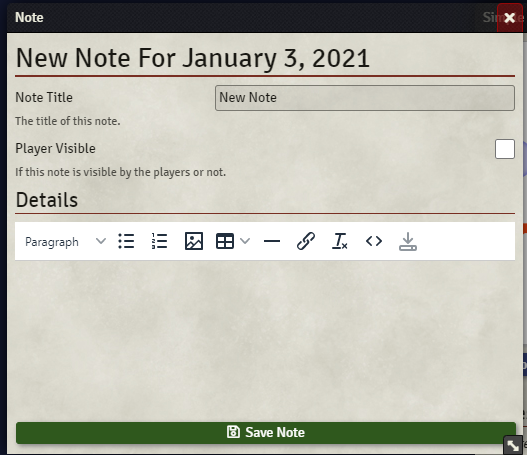
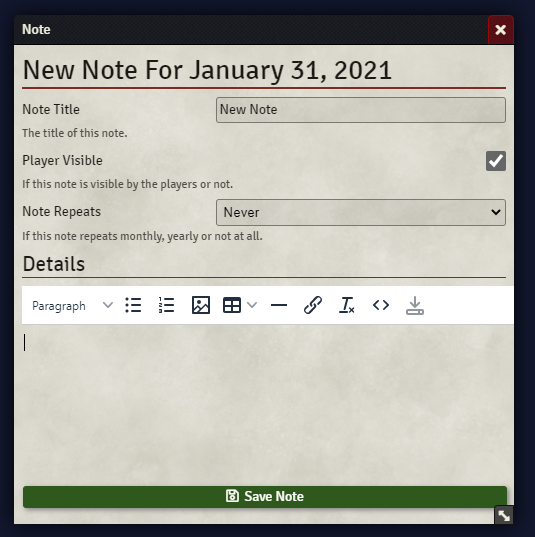
Added the option to repeat notes monthly, yearly or never (default). Notes that are repeated ignore certain criteria when checking if they should be shown. Notes that repeat monthly and fall on a day the month doesn't have are not shown.

Changed region(s): [[0.0, 0.0, 1.0, 1.0]]

diff --git a/src/classes/simple-calendar-notes.test.ts b/src/classes/simple-calendar-notes.test.ts
@@ -12,6 +12,10 @@ import {SimpleCalendarNotes} from "./simple-calendar-notes";
 import {Note} from "./note";
 import SpyInstance = jest.SpyInstance;
 import Mock = jest.Mock;
+import {NoteRepeat} from "../constants";
+import SimpleCalendar from "./simple-calendar";
+import Year from "./year";
+import Month from "./month";
 
 describe('Simple Calendar Notes Tests', () => {
     let renderSpy: SpyInstance;
@@ -51,13 +55,15 @@ describe('Simple Calendar Notes Tests', () => {
     test('Default Options', () => {
         const spy = jest.spyOn(FormApplication, 'defaultOptions', 'get');
         const opts = SimpleCalendarNotes.defaultOptions;
-        expect(Object.keys(opts).length).toBe(5); //Make sure no new properties have been added
+        expect(Object.keys(opts).length).toBe(6); //Make sure no new properties have been added
         expect(opts.template).toBe('modules/foundryvtt-simple-calendar/templates/calendar-notes.html');
         expect(opts.title).toBe('FSC.Notes.DialogTitle');
         expect(opts.classes).toStrictEqual(["form","simple-calendar"]);
         expect(opts.resizable).toBe(true);
         //@ts-ignore
         expect(opts.closeOnSubmit).toBe(false);
+        //@ts-ignore
+        expect(opts.width).toBe(500);
         expect(spy).toHaveBeenCalled()
     });
 
@@ -66,6 +72,29 @@ describe('Simple Calendar Notes Tests', () => {
         expect(data.viewMode).toBe(false);
         expect(data.richButton).toBe(true);
         expect(data.canEdit).toBe(false);
+        expect(data.noteYear).toBe(0);
+        expect(data.noteMonth).toBe('');
+
+        SimpleCalendar.instance = new SimpleCalendar();
+        SimpleCalendarNotes.instance.object.repeats = NoteRepeat.Yearly;
+        data = SimpleCalendarNotes.instance.getData();
+        expect(data.noteYear).toBeUndefined()
+        expect(data.noteMonth).toBe('');
+
+        SimpleCalendarNotes.instance.object.repeats = NoteRepeat.Monthly;
+        data = SimpleCalendarNotes.instance.getData();
+        expect(data.noteYear).toBeUndefined();
+        expect(data.noteMonth).toBeUndefined();
+
+        SimpleCalendar.instance.currentYear = new Year(1);
+        data = SimpleCalendarNotes.instance.getData();
+        expect(data.noteYear).toBe(1);
+        expect(data.noteMonth).toBeUndefined();
+        SimpleCalendar.instance.currentYear.months.push(new Month('Name', 1));
+        SimpleCalendar.instance.currentYear.months[0].visible = true;
+        data = SimpleCalendarNotes.instance.getData();
+        expect(data.noteYear).toBe(1);
+        expect(data.noteMonth).toBe('Name');
     });
 
     test('Set Up Text Editor', () => {
@@ -209,13 +238,16 @@ describe('Simple Calendar Notes Tests', () => {
             find: jest.fn()
                 .mockReturnValueOnce({ val: () => {return '';} })
                 .mockReturnValueOnce({ is: () => {return false;} })
+                .mockReturnValueOnce({ find: () => {return {val: () => {return false;}}} })
                 .mockReturnValueOnce({ val: () => {return 'Title';} })
                 .mockReturnValueOnce({ is: () => {return true;} })
+                .mockReturnValueOnce({ find: () => {return {val: () => {return '0';}}} })
                 .mockReturnValueOnce({ val: () => {return 'Title';} })
                 .mockReturnValueOnce({ is: () => {return true;} })
+                .mockReturnValueOnce({ find: () => {return {val: () => {return '0';}}} })
                 .mockReturnValueOnce({ val: () => {return 'Title';} })
                 .mockReturnValueOnce({ is: () => {return true;} })
-
+                .mockReturnValueOnce({ find: () => {return {val: () => {return '0';}}} })
         };
         SimpleCalendarNotes.instance.editors['content'].mce = {getContent: ()=>{return '';},isNotDirty: false};
         SimpleCalendarNotes.instance.richEditorSaved = true;

diff --git a/src/classes/simple-calendar-notes.ts b/src/classes/simple-calendar-notes.ts
@@ -1,6 +1,8 @@
 import {Note} from './note';
 import {Logger} from "./logging";
 import {GameSettings} from "./game-settings";
+import {NoteRepeat} from "../constants";
+import SimpleCalendar from "./simple-calendar";
 
 export class SimpleCalendarNotes extends FormApplication {
     /**
@@ -72,6 +74,17 @@ export class SimpleCalendarNotes extends FormApplication {
         options.viewMode = this.viewMode;
         options.richButton = !this.viewMode;
         options.canEdit = GameSettings.IsGm();
+        options.repeatOptions = {0: 'FSC.Notes.Repeat.Never', 1: 'FSC.Notes.Repeat.Monthly', 2: 'FSC.Notes.Repeat.Yearly'};
+        if((<Note>this.object).repeats === NoteRepeat.Yearly || (<Note>this.object).repeats === NoteRepeat.Monthly){
+            options.noteYear = SimpleCalendar.instance.currentYear?.visibleYear;
+        } else {
+            options.noteYear = (<Note>this.object).year;
+        }
+        if((<Note>this.object).repeats === NoteRepeat.Monthly){
+            options.noteMonth = SimpleCalendar.instance.currentYear?.getVisibleMonth()?.name;
+        } else {
+            options.noteMonth = (<Note>this.object).monthDisplay;
+        }
         return options;
     }
 
@@ -229,9 +242,16 @@ export class SimpleCalendarNotes extends FormApplication {
         if(this.richEditorSaved || detailsEmpty){
             const title = (<JQuery>this.element).find('#scNoteTitle').val();
             const playerVisible = (<JQuery>this.element).find('#scNoteVisibility').is(':checked');
+            let repeats = (<JQuery>this.element).find('#scNoteRepeats').find(":selected").val();
+            if(repeats){
+                repeats = parseInt(repeats.toString());
+            } else {
+                repeats = 0;
+            }
             if(title){
                 (<Note>this.object).title = title.toString();
                 (<Note>this.object).playerVisible = playerVisible;
+                (<Note>this.object).repeats = repeats;
                 const currentNotes = GameSettings.LoadNotes().map(n => {
                     const note = new Note();
                     note.loadFromConfig(n);

diff --git a/src/classes/note.test.ts b/src/classes/note.test.ts
@@ -10,6 +10,7 @@ import "../../__mocks__/crypto";
 
 import {Note} from "./note";
 import {NoteConfig} from "../interfaces";
+import {NoteRepeat} from "../constants";
 
 
 describe('Note Tests', () => {
@@ -29,7 +30,7 @@ describe('Note Tests', () => {
     });
 
     test('Properties', () => {
-        expect(Object.keys(n).length).toBe(9); //Make sure no new properties have been added
+        expect(Object.keys(n).length).toBe(10); //Make sure no new properties have been added
         expect(n.year).toBe(0);
         expect(n.month).toBe(1);
         expect(n.day).toBe(2);
@@ -39,6 +40,7 @@ describe('Note Tests', () => {
         expect(n.author).toBe('');
         expect(n.playerVisible).toBe(false);
         expect(n.id).toBe('abc123');
+        expect(n.repeats).toBe(NoteRepeat.Never);
     });
 
     test('To Template', () => {
@@ -61,7 +63,8 @@ describe('Note Tests', () => {
             author: 'a',
             title: 't',
             content: 'c',
-            id: 'i'
+            id: 'i',
+            repeats: 1
         };
         n.loadFromConfig(config);
         expect(n.year).toBe(1);
@@ -73,6 +76,7 @@ describe('Note Tests', () => {
         expect(n.author).toBe('a');
         expect(n.playerVisible).toBe(true);
         expect(n.id).toBe('i');
+        expect(n.repeats).toBe(1);
     });
 
     test('Clone', () => {
@@ -88,5 +92,13 @@ describe('Note Tests', () => {
         game.user.isGM = true;
         expect(n.isVisible(0,0,0)).toBe(false);
         expect(n.isVisible(0,1,2)).toBe(true);
+
+        n.repeats = NoteRepeat.Monthly;
+        expect(n.isVisible(99,99,0)).toBe(false);
+        expect(n.isVisible(99,99,2)).toBe(true);
+
+        n.repeats = NoteRepeat.Yearly;
+        expect(n.isVisible(99,0,0)).toBe(false);
+        expect(n.isVisible(99,1,2)).toBe(true);
     });
 });

diff --git a/src/classes/note.ts b/src/classes/note.ts
@@ -1,5 +1,6 @@
 import {NoteConfig, NoteTemplate} from "../interfaces";
 import {GameSettings} from "./game-settings"
+import {NoteRepeat} from "../constants";
 
 /**
  * All content around a calendar note
@@ -50,6 +51,11 @@ export class Note{
      * @type {boolean}
      */
     playerVisible: boolean = false;
+    /**
+     * How often this note repeats
+     * @type {NoteRepeat}
+     */
+    repeats: NoteRepeat = NoteRepeat.Never;
 
     /**
      * The note constructor
@@ -86,6 +92,7 @@ export class Note{
         this.author = noteConfig.author;
         this.playerVisible = noteConfig.playerVisible;
         this.id = noteConfig.id;
+        this.repeats = noteConfig.repeats;
     }
 
     /**
@@ -102,6 +109,7 @@ export class Note{
         n.author = this.author;
         n.playerVisible = this.playerVisible;
         n.id = this.id;
+        n.repeats = this.repeats;
         return n;
     }
 
@@ -112,6 +120,15 @@ export class Note{
      * @param {number} day The day we are checking
      */
     isVisible(year: number, month: number ,day: number){
-        return (GameSettings.IsGm() || (!GameSettings.IsGm() && this.playerVisible)) && this.year === year && this.month === month && this.day === day;
+        const userVisible = (GameSettings.IsGm() || (!GameSettings.IsGm() && this.playerVisible));
+        let dayVisible = false;
+        if(this.repeats === NoteRepeat.Monthly){
+            dayVisible = this.day === day;
+        } else if(this.repeats === NoteRepeat.Yearly){
+            dayVisible = this.month === month && this.day === day;
+        } else {
+            dayVisible = this.year === year && this.month === month && this.day === day;
+        }
+        return userVisible && dayVisible;
     }
 }

diff --git a/src/templates/calendar-notes.html b/src/templates/calendar-notes.html
@@ -1,7 +1,7 @@
 <div id="simpleCalendarNotes">
     <form autocomplete="off" onsubmit="event.preventDefault();">
         {{#if viewMode}}
-        <p>{{object.monthDisplay}} {{object.day}}, {{object.year}}</p>
+        <p>{{noteMonth}} {{object.day}}, {{noteYear}}</p>
         <h1>{{object.title}}</h1>
         {{else}}
         <h1>{{localize 'FSC.Notes.NewFor'}} {{object.monthDisplay}} {{object.day}}, {{object.year}}</h1>
@@ -18,6 +18,15 @@
                 <input value="{{object.playerVisible}}" type="checkbox" id="scNoteVisibility" {{#if object.playerVisible}}checked="checked"{{/if}} />
             </div>
             <p class="notes">{{localize 'FSC.Notes.PlayerVisibleHelp'}}</p>
+        </div>
+        <div class="form-group">
+            <label for="scNoteRepeats">{{localize 'FSC.Notes.Repeating'}}</label>
+            <div class="form-fields">
+                <select id="scNoteRepeats">
+                    {{selectOptions repeatOptions selected=object.repeats localize=true}}
+                </select>
+            </div>
+            <p class="notes">{{localize 'FSC.Notes.RepeatingHelp'}}</p>
         </div>
         <h2>Details</h2>
         {{/if}}

diff --git a/src/interfaces.test.ts b/src/interfaces.test.ts
@@ -109,8 +109,8 @@ describe('Interface Tests', () => {
     });
 
     test('Notes Config', () => {
-        const nc: NoteConfig = {year: 0, month:0, day:0, title: '', content: '', author: '', playerVisible: false, monthDisplay: '', id: ''};
-        expect(Object.keys(nc).length).toBe(9); //Make sure no new properties have been added
+        const nc: NoteConfig = {year: 0, month:0, day:0, title: '', content: '', author: '', playerVisible: false, monthDisplay: '', id: '', repeats: 0};
+        expect(Object.keys(nc).length).toBe(10); //Make sure no new properties have been added
         expect(nc.title).toBe('');
         expect(nc.content).toBe('');
         expect(nc.author).toBe('');
@@ -120,5 +120,6 @@ describe('Interface Tests', () => {
         expect(nc.playerVisible).toBe(false);
         expect(nc.monthDisplay).toBe('');
         expect(nc.id).toBe('');
+        expect(nc.repeats).toBe(0);
     });
 });

diff --git a/src/interfaces.ts b/src/interfaces.ts
@@ -1,6 +1,8 @@
 /**
  * Interface for the calendar template that is passed to the HTML for rendering
  */
+import {NoteRepeat} from "./constants";
+
 export interface CalendarTemplate {
     isGM: boolean;
     selectedYear: number;
@@ -113,6 +115,7 @@ export interface NoteConfig {
     monthDisplay: string;
     playerVisible: boolean;
     id: string;
+    repeats: NoteRepeat;
 }
 
 /**

diff --git a/src/classes/game-settings.ts b/src/classes/game-settings.ts
@@ -242,7 +242,8 @@ export class GameSettings {
             day: w.day,
             monthDisplay: w.monthDisplay,
             playerVisible: w.playerVisible,
-            id: w.id
+            id: w.id,
+            repeats: w.repeats
         };});
         return game.settings.set(ModuleName, SettingNames.Notes, newConfig).then(() => {return true;});
     }

diff --git a/src/constants.ts b/src/constants.ts
@@ -14,3 +14,13 @@ export enum SettingNames {
     Notes = 'notes',
     AllowPlayersToAddNotes = 'allow-players-add-notes'
 }
+
+/**
+ * The different intervals a note can repeat
+ */
+export enum NoteRepeat {
+    Never,
+    Monthly,
+    Yearly,
+    Weekly
+}

diff --git a/README.md b/README.md
@@ -93,6 +93,7 @@ Field | Description
 ------- | -----------
 Note Title | The title for the note, this title will appear in the listing of notes for the day.
 Player Visible | If this note can be seen by players or if it is for the GM only.
+Note Repeats | If this note repeats monthly, yearly or never. If the note repeats monthly and it is on a day that some months don't have (eg the 31st) months that don't go to that day will not have this note.
 Details | Here you can enter the details of a note using the built in text editor.
 
 After all of the details are filled out you can save the note.
